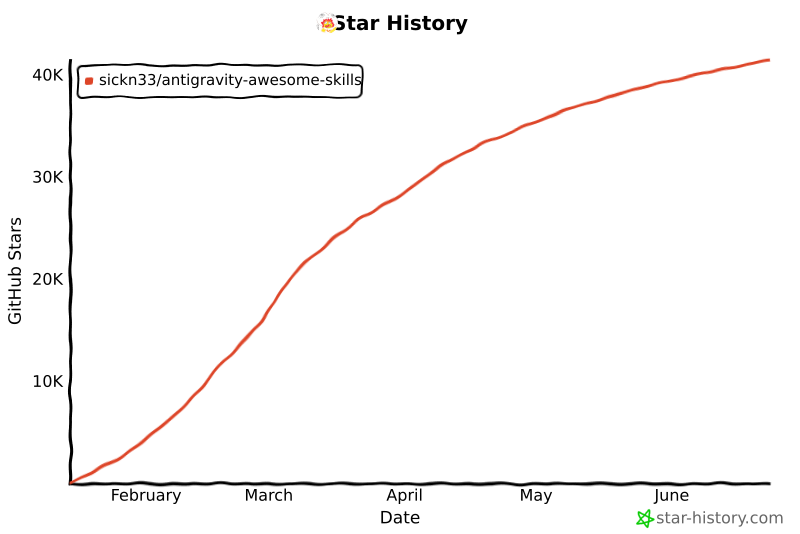
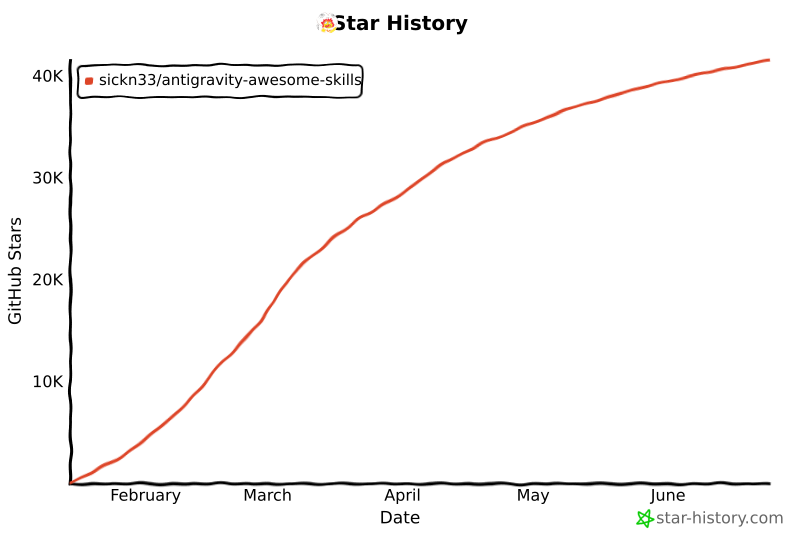
chore: update star history chart

diff --git a/README.md b/README.md
@@ -510,14 +510,14 @@ We officially thank the following contributors for their help in making this rep
 ## Star History
 
 <a href="https://www.star-history.com/#sickn33/antigravity-awesome-skills&type=date&legend=top-left">
- <img alt="Star History Chart" src="https://api.star-history.com/svg?repos=sickn33/antigravity-awesome-skills&type=date&legend=top-left&cache_bust=202606240716" />
+ <img alt="Star History Chart" src="https://api.star-history.com/svg?repos=sickn33/antigravity-awesome-skills&type=date&legend=top-left&cache_bust=202606250717" />
 </a>
 
 <a href="https://www.star-history.com/sickn33/antigravity-awesome-skills">
  <picture>
-   <source media="(prefers-color-scheme: dark)" srcset="https://api.star-history.com/chart?repos=sickn33/antigravity-awesome-skills&style=landscape1&theme=dark&cache_bust=202606240716" />
-   <source media="(prefers-color-scheme: light)" srcset="https://api.star-history.com/chart?repos=sickn33/antigravity-awesome-skills&style=landscape1&cache_bust=202606240716" />
-   <img alt="Star History Chart" src="https://api.star-history.com/chart?repos=sickn33/antigravity-awesome-skills&style=landscape1&cache_bust=202606240716" />
+   <source media="(prefers-color-scheme: dark)" srcset="https://api.star-history.com/chart?repos=sickn33/antigravity-awesome-skills&style=landscape1&theme=dark&cache_bust=202606250717" />
+   <source media="(prefers-color-scheme: light)" srcset="https://api.star-history.com/chart?repos=sickn33/antigravity-awesome-skills&style=landscape1&cache_bust=202606250717" />
+   <img alt="Star History Chart" src="https://api.star-history.com/chart?repos=sickn33/antigravity-awesome-skills&style=landscape1&cache_bust=202606250717" />
  </picture>
 </a>
 
